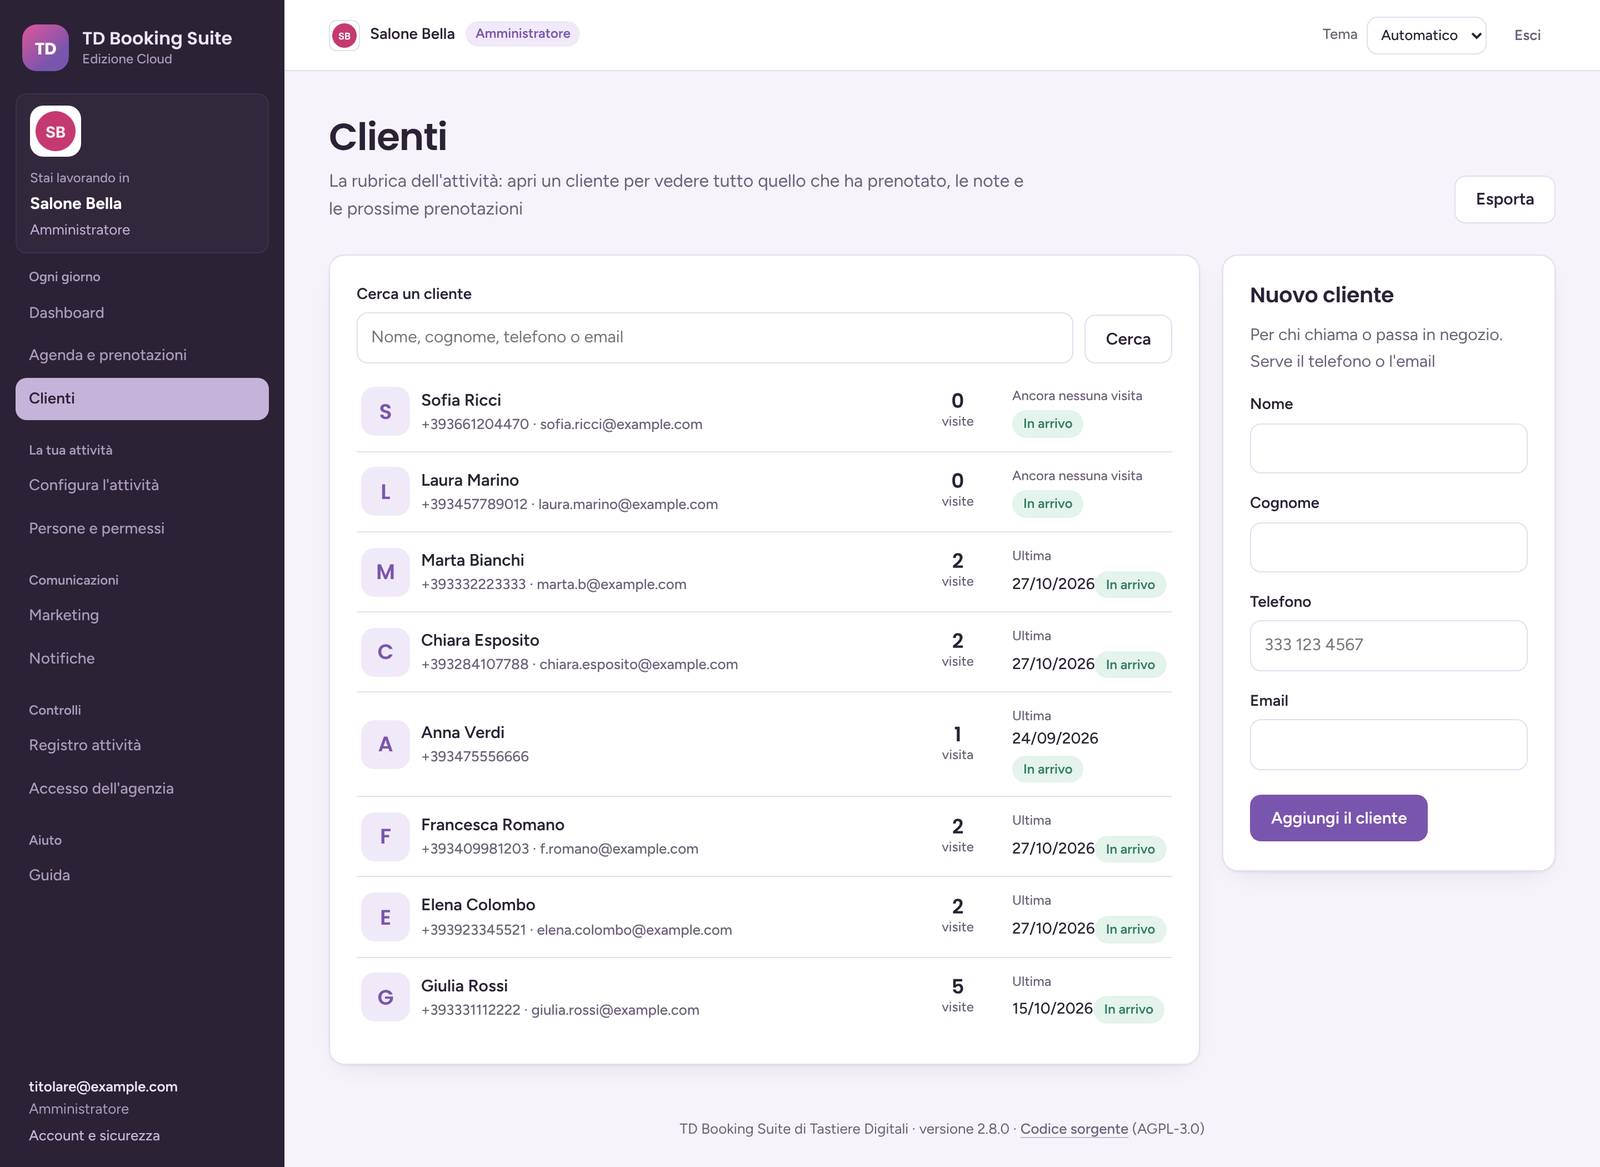
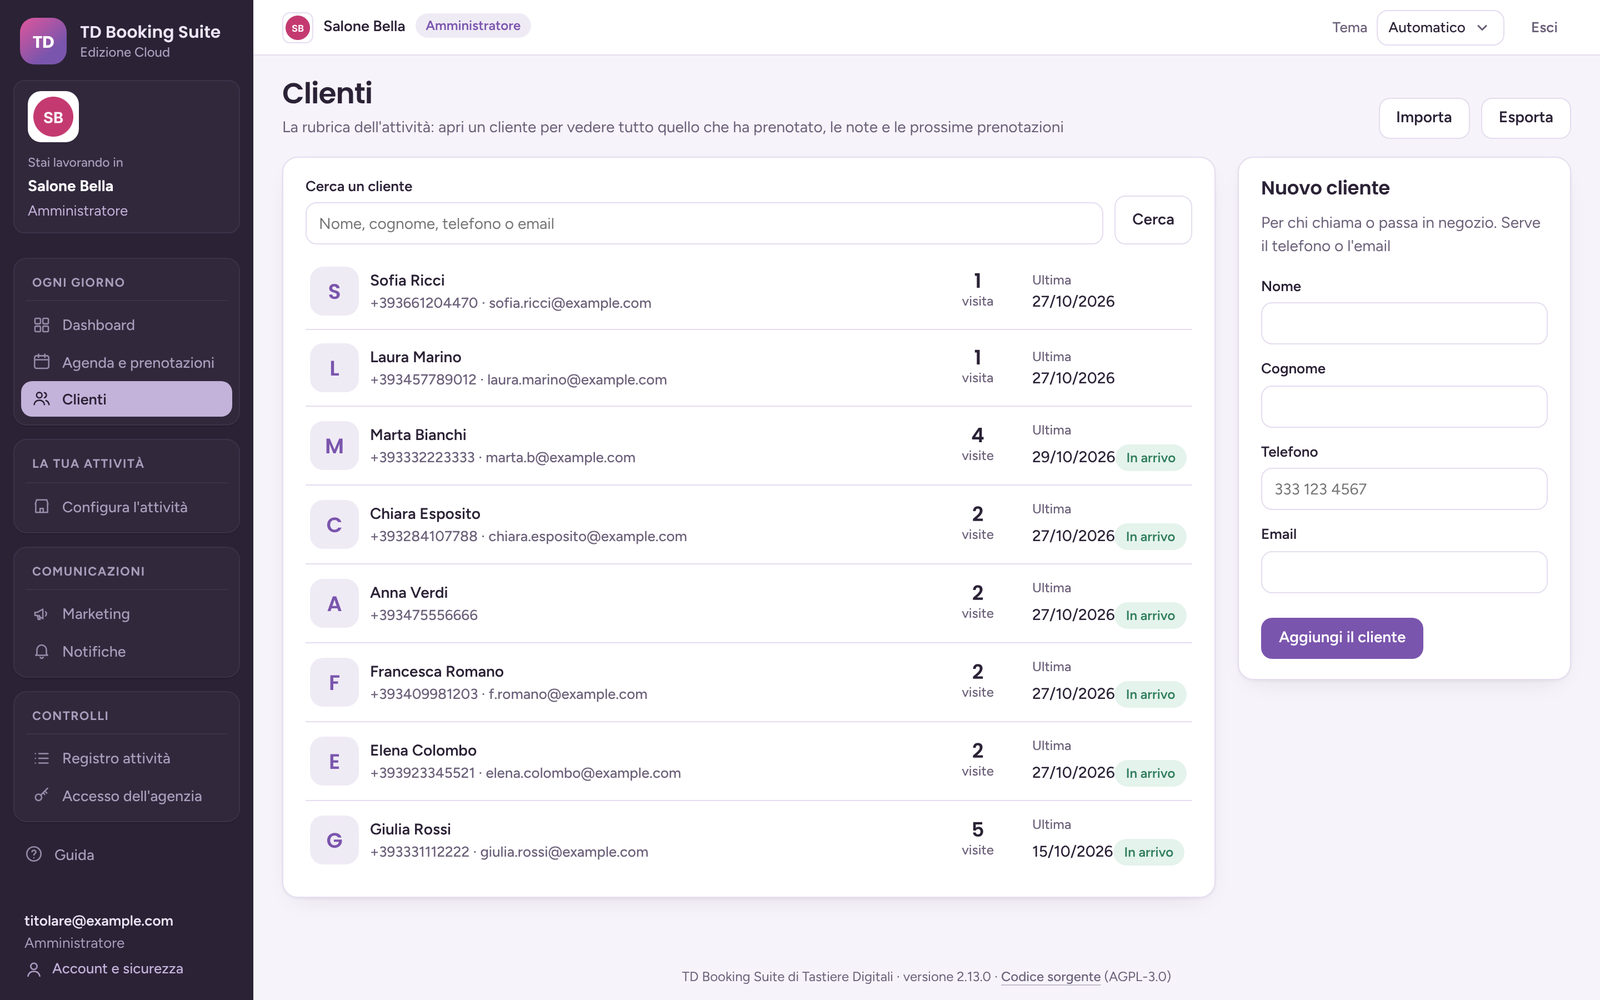
2.13.0: README e screenshot dell'edizione Docker rifatti con la grafica e le funzioni nuove
Claude-Session: https://claude.ai/code/session_01HhmNK72iFx9khDS8UGdcof

diff --git a/README.it.md b/README.it.md
@@ -20,11 +20,15 @@ chiave.
 | **Prenotazione** — la nota sul cliente in cima, i trattamenti precedenti prima di cominciare, *Registra trattamento* a lavoro finito.<br>![Dettaglio prenotazione](docs/screenshots/02-booking-detail.png) | **Ristorante, stasera** — i tavoli del giorno, le intolleranze in arancione.<br>![Dashboard del ristorante](docs/screenshots/03-restaurant-dashboard.png) |
 | **Pagina prenotazioni** — i 14 allergeni UE più il lattosio da spuntare, e le domande del ristorante.<br>![Modulo del ristorante](docs/screenshots/04-booking-form-restaurant.png) | **Intolleranze e allergie** — accese o spente, voci da aggiungere e togliere, l'anteprima di cosa vede il cliente.<br>![Intolleranze e allergie](docs/screenshots/05-allergens.png) |
 | **Studio di tatuaggi** — zona, dimensione, colore o bianco e nero, online solo maggiorenni.<br>![Modulo del tatuatore](docs/screenshots/07-booking-form-tattoo.png) | **Domande** — ogni servizio ha le sue: testo, numero, sì/no, elenco; facoltative o obbligatorie.<br>![Domande del modulo](docs/screenshots/08-booking-questions.png) |
-| **Agenda** — le prenotazioni del periodo, le intolleranze nella riga, export CSV.<br>![Agenda](docs/screenshots/06-agenda.png) | **Prenotazione al banco** — il cliente si trova per nome, telefono o email, oppure se ne scrive uno nuovo.<br>![Nuova prenotazione](docs/screenshots/09-new-booking-client-search.png) |
-| **Clienti** — la rubrica con le visite e la prossima prenotazione.<br>![Clienti](docs/screenshots/10-clients.png) | **Dashboard del salone** — oggi, i prossimi 7 giorni, le prenotazioni ricevute, come sono andate.<br>![Dashboard del salone](docs/screenshots/11-salon-dashboard.png) |
+| **Agenda del giorno** — una colonna per ogni operatore che lavora, con la sua foto; un clic su uno spazio libero e la prenotazione parte con operatore, giorno e ora.<br>![Agenda](docs/screenshots/06-agenda.png) | **Prenotazione al banco** — il cliente si trova per nome, telefono o email, oppure se ne scrive uno nuovo.<br>![Nuova prenotazione](docs/screenshots/09-new-booking-client-search.png) |
+| **Clienti** — la rubrica con le visite e la prossima prenotazione.<br>![Clienti](docs/screenshots/10-clients.png) | **Dashboard del salone** — oggi e i prossimi 7 giorni da cliccare, le prenotazioni ricevute, come sono andate.<br>![Dashboard del salone](docs/screenshots/11-salon-dashboard.png) |
 | **Agenzia** — tutte le attività a colpo d'occhio, e cosa chiede attenzione.<br>![Dashboard dell'agenzia](docs/screenshots/12-agency-dashboard.png) | **Clienti dell'agenzia** — logo, settore, referente, numeri.<br>![Clienti dell'agenzia](docs/screenshots/13-agency-clients.png) |
-| **Scheda del cliente dell'agenzia** — anagrafica, logo, referenti, configurazione e utilizzo. Solo numeri: i clienti dell'attività restano nel suo portale.<br>![Scheda del cliente](docs/screenshots/14-agency-client.png) | **Accesso** — password, app Authenticator o passkey.<br>![Accesso](docs/screenshots/18-login.png) |
-| **Tema scuro** — automatico, chiaro o scuro.<br>![Tema scuro](docs/screenshots/15-dark-theme.png) | **Dal telefono** — la scheda cliente e la pagina prenotazioni.<br><img src="docs/screenshots/16-mobile-client.png" alt="Scheda cliente dal telefono" width="49%"> <img src="docs/screenshots/17-mobile-booking.png" alt="Pagina prenotazioni dal telefono" width="49%"> |
+| **Scheda del cliente dell'agenzia** — anagrafica, logo, referenti, configurazione e utilizzo. Solo numeri: i clienti dell'attività restano nel suo portale.<br>![Scheda del cliente](docs/screenshots/14-agency-client.png) | **Accesso** — password, app Authenticator o passkey; *Resta collegato* finché non premi Esci.<br>![Accesso](docs/screenshots/18-login.png) |
+| **Settimana** — i sette giorni ora per ora, un colore per operatore, per tutti o per uno solo.<br>![Settimana](docs/screenshots/19-agenda-week.png) | **Mese** — quanti appuntamenti ha ogni giorno e i primi; un clic apre il giorno.<br>![Mese](docs/screenshots/20-agenda-month.png) |
+| **Operatore** — la foto, cosa fa con la sua durata e il suo prezzo, i suoi giorni e orari.<br>![Operatore](docs/screenshots/21-operator.png) | **Prossimi 7 giorni** — dalla dashboard, chi viene e a che ora, giorno per giorno.<br>![Prossimi 7 giorni](docs/screenshots/22-next-7-days.png) |
+| **Email ai clienti** — quali partono, il promemoria, i testi con i campi e l'anteprima.<br>![Email ai clienti](docs/screenshots/23-client-emails.png) | **Logo e aspetto** — logo, colore e frase dell'attività, con l'anteprima del menu e della pagina prenotazioni.<br>![Logo e aspetto](docs/screenshots/24-logo-look.png) |
+| **Persone e permessi** — solo per l'agenzia: ruoli, sedi, risorse, password.<br>![Persone e permessi](docs/screenshots/25-people.png) | **Tema scuro** — automatico, chiaro o scuro.<br>![Tema scuro](docs/screenshots/15-dark-theme.png) |
+| **Dal telefono** — la scheda cliente e la pagina prenotazioni.<br><img src="docs/screenshots/16-mobile-client.png" alt="Scheda cliente dal telefono" width="49%"> <img src="docs/screenshots/17-mobile-booking.png" alt="Pagina prenotazioni dal telefono" width="49%"> | |
 
 I dati sono una demo con nomi inventati e indirizzi `example.com`.
 
@@ -59,7 +63,8 @@ I dati sono una demo con nomi inventati e indirizzi `example.com`.
   programma comprese; ogni prenotazione tiene il suo prezzo, come uno scontrino.
 - **Lo stesso cliente, una scheda**: si riconosce dall'email, poi dal telefono. Chi è stato
   inserito al banco con il solo numero ritrova la sua scheda quando prenota online; due email
-  diverse restano due persone, anche con lo stesso telefono.
+  diverse restano due persone, anche con lo stesso telefono, e un nome diverso sullo stesso numero
+  (una madre e la figlia) ha la sua scheda.
 - **Importa dal programma di prima** — anagrafica e storico dei trattamenti da Excel o CSV:
   si sceglie cosa contiene ogni colonna, si guarda l'anteprima, si importa. Le schede che ci sono
   già prendono solo i dati mancanti; i consensi marketing restano da confermare.
@@ -83,7 +88,10 @@ I dati sono una demo con nomi inventati e indirizzi `example.com`.
 **Portale dell'attività**
 - **Agenda del giorno, della settimana e del mese**: nel giorno una colonna per ogni operatore che
   lavora, la settimana ora per ora con gli appuntamenti affiancati, il mese con quanti ne ha ogni
-  giorno; ogni operatore ha il suo colore.
+  giorno; ogni operatore ha il suo colore e la sua foto, e si guarda l'agenda di uno solo. I
+  soggiorni compaiono in ogni giorno, con arrivo, "in casa" e partenza.
+- **Operatori con foto** e cosa fa ciascuno, con la sua durata e il suo prezzo se diversi da quelli
+  del trattamento; i suoi giorni e orari, le ferie.
 - **Il listino lo tiene l'attività**: servizi e varianti con i loro prezzi; il tipo di prenotazione
   resta dell'agenzia.
 - Dashboard, agenda, prenotazioni al banco, clienti, export CSV, campagne marketing con consenso
@@ -93,7 +101,8 @@ I dati sono una demo con nomi inventati e indirizzi `example.com`.
   l'agenzia lo attiva l'attività sceglie quali inviare, aggiunge il promemoria (da 2 ore a 3 giorni
   prima) e ne scrive il testo, con l'anteprima. Il cliente sceglie se riceverle.
 - **Logo e aspetto** tenuti dall'attività, con l'anteprima; la dashboard mostra chi viene oggi e nei
-  prossimi 7 giorni. Campagne e CSV degli iscritti li accende l'agenzia.
+  prossimi 7 giorni. Campagne e CSV degli iscritti li accende l'agenzia: senza, la voce Marketing
+  non compare.
 - Persone e ruoli, dati dall'agenzia: amministratore, amministratore sede, reception, operatore
   sede (solo la sua agenda e le sue sedi), marketing, consultazione.
 - Email con l'SMTP dell'attività, Gmail o Microsoft 365, oppure quello dell'agenzia; coda di
@@ -117,7 +126,8 @@ I dati sono una demo con nomi inventati e indirizzi `example.com`.
   proprietario delle tabelle) e chiavi esterne che non possono puntare ai dati di un'altra
   attività.
 - Verifica in due passaggi con **app Authenticator o passkey**, codici di recupero, conferma della
-  password per le pagine sensibili, limiti ai tentativi, registro delle attività.
+  password per le pagine sensibili, limiti ai tentativi, registro delle attività. *Resta collegato*
+  tiene dentro un dispositivo finché non preme Esci (o i giorni di `TDBS_SESSION_REMEMBER_DAYS`).
 - Export e cancellazione GDPR per cliente, regole di conservazione per attività, rotazione delle
   chiavi, backup cifrati.
 - **Aggiornamento automatico ogni notte** di Python, Debian, librerie e PostgreSQL 17.x,

diff --git a/README.md b/README.md
@@ -19,11 +19,15 @@ site. Self-hosted with Docker, every business sealed with its own key.
 | **Booking** — the note on the client at the top, the previous treatments before you start, *Register treatment* when you are done.<br>![Booking detail](docs/screenshots/02-booking-detail.png) | **Restaurant, tonight** — the tables of the day, intolerances in orange.<br>![Restaurant dashboard](docs/screenshots/03-restaurant-dashboard.png) |
 | **Booking page** — the 14 EU allergens plus lactose as chips, and the questions of a restaurant.<br>![Restaurant booking form](docs/screenshots/04-booking-form-restaurant.png) | **Intolerances and allergies** — on or off, add and remove items, a preview of what the client sees.<br>![Intolerances and allergies](docs/screenshots/05-allergens.png) |
 | **Tattoo studio** — area, size, colour or black and grey, adults only online.<br>![Tattoo booking form](docs/screenshots/07-booking-form-tattoo.png) | **Questions** — each service has its own: text, number, yes/no, list; optional or required.<br>![Booking questions](docs/screenshots/08-booking-questions.png) |
-| **Agenda** — bookings by period, intolerances in the row, CSV export.<br>![Agenda](docs/screenshots/06-agenda.png) | **Booking at the desk** — find the client by name, phone or email, or type a new one.<br>![New booking](docs/screenshots/09-new-booking-client-search.png) |
+| **Day agenda** — a column for each staff member at work, with their photo; a click on a free slot starts a booking with that person at that time.<br>![Agenda](docs/screenshots/06-agenda.png) | **Booking at the desk** — find the client by name, phone or email, or type a new one.<br>![New booking](docs/screenshots/09-new-booking-client-search.png) |
 | **Clients** — the address book with visits and the next booking.<br>![Clients](docs/screenshots/10-clients.png) | **Salon dashboard** — today, the next 7 days, bookings received, how they went.<br>![Salon dashboard](docs/screenshots/11-salon-dashboard.png) |
 | **Agency** — every business at a glance, and what needs attention.<br>![Agency dashboard](docs/screenshots/12-agency-dashboard.png) | **Agency clients** — logo, sector, contact person, numbers.<br>![Agency clients](docs/screenshots/13-agency-clients.png) |
-| **Agency client sheet** — company data, logo, contacts, setup and usage. Numbers only: the business's clients stay in its portal.<br>![Agency client](docs/screenshots/14-agency-client.png) | **Sign in** — password, authenticator app or passkey.<br>![Sign in](docs/screenshots/18-login.png) |
-| **Dark theme** — automatic, light or dark.<br>![Dark theme](docs/screenshots/15-dark-theme.png) | **On the phone** — the client record and the booking page.<br><img src="docs/screenshots/16-mobile-client.png" alt="Client record on a phone" width="49%"> <img src="docs/screenshots/17-mobile-booking.png" alt="Booking page on a phone" width="49%"> |
+| **Agency client sheet** — company data, logo, contacts, setup and usage. Numbers only: the business's clients stay in its portal.<br>![Agency client](docs/screenshots/14-agency-client.png) | **Sign in** — password, authenticator app or passkey; *Stay signed in* until you sign out.<br>![Sign in](docs/screenshots/18-login.png) |
+| **Week** — the seven days hour by hour, one colour per staff member, for everyone or one only.<br>![Week](docs/screenshots/19-agenda-week.png) | **Month** — how many appointments each day has and the first ones; a click opens the day.<br>![Month](docs/screenshots/20-agenda-month.png) |
+| **Staff member** — the photo, what they do with their own duration and price, their days and hours.<br>![Staff member](docs/screenshots/21-operator.png) | **Next 7 days** — from the dashboard, who comes and when, day by day.<br>![Next 7 days](docs/screenshots/22-next-7-days.png) |
+| **Emails to the clients** — which ones go, the reminder, the texts with their fields and a preview.<br>![Emails to the clients](docs/screenshots/23-client-emails.png) | **Logo and look** — the business's logo, colour and line, with a preview of the menu and the booking page.<br>![Logo and look](docs/screenshots/24-logo-look.png) |
+| **People and permissions** — the agency's only: roles, locations, resources, passwords.<br>![People and permissions](docs/screenshots/25-people.png) | **Dark theme** — automatic, light or dark.<br>![Dark theme](docs/screenshots/15-dark-theme.png) |
+| **On the phone** — the client record and the booking page.<br><img src="docs/screenshots/16-mobile-client.png" alt="Client record on a phone" width="49%"> <img src="docs/screenshots/17-mobile-booking.png" alt="Booking page on a phone" width="49%"> | |
 
 The data shown is a demo with made-up names and `example.com` addresses. The interface is in
 Italian.
@@ -59,7 +63,8 @@ Italian.
   included; each booking keeps its price like a receipt.
 - **The same client, one card**: found by email, then by phone. A client added at the desk with a
   phone number only finds their card again when they book online; two different emails stay two
-  people, even with the same phone.
+  people, even with the same phone, and another name on the same number (a mother and her
+  daughter) gets a card of its own.
 - **Import from the previous program** — client list and treatment history from Excel or CSV:
   pick what each column holds, check the preview, import. Existing cards only get the missing
   data; marketing consents stay to be confirmed.
@@ -82,7 +87,10 @@ Italian.
 **Business portal**
 - **Agenda by day, week and month**: a column per working staff member for the day, the week hour
   by hour with overlapping appointments side by side, the month with how full each day is; one
-  colour per staff member everywhere.
+  colour and one photo per staff member everywhere, and the agenda of one person only. Stays show on
+  each of their days, with arrival, "in house" and departure.
+- **Staff with photos** and what each one does, with their own duration and price when they differ
+  from the treatment's; their days and hours, their holidays.
 - **Price list kept by the business**: services and variants with their prices; the kind of
   booking stays with the agency.
 - Dashboard, agenda, bookings at the desk, clients, CSV export, marketing campaigns with confirmed
@@ -92,7 +100,8 @@ Italian.
   agency allows it the business picks which ones go, adds the reminder (2 hours to 3 days before)
   and writes them, with a preview. The client chooses whether to get them.
 - **Logo and look** kept by the business, with a preview; the dashboard shows who comes today and in
-  the next 7 days. Campaigns and the subscribers' CSV are switched on by the agency.
+  the next 7 days. Campaigns and the subscribers' CSV are switched on by the agency: without them,
+  Marketing is not in the menu.
 - People and roles, given by the agency: administrator, location manager, reception, location
   operator (only their own agenda and locations), marketing, read-only.
 - Mail through the business's own SMTP, Gmail or Microsoft 365, or the agency's; an outbox with
@@ -114,7 +123,8 @@ Italian.
 - PostgreSQL **row-level security** on every business table (forced, also for the table owner),
   and foreign keys that cannot point to another business's rows.
 - Two-step verification with **authenticator app or passkey**, recovery codes, password confirmation
-  for sensitive pages, rate limits, audit log.
+  for sensitive pages, rate limits, audit log. *Stay signed in* keeps a device in until
+  it signs out (or for the days in `TDBS_SESSION_REMEMBER_DAYS`).
 - GDPR export and erasure per client, retention rules per business, key rotation, encrypted
   backups.
 - **Nightly automatic update** of Python, Debian, libraries and PostgreSQL 17.x, with a
